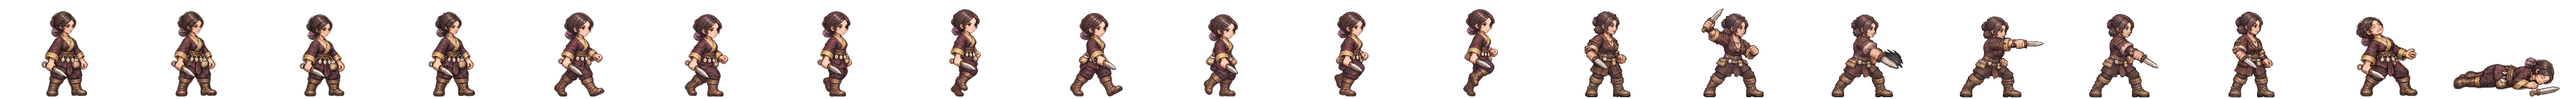
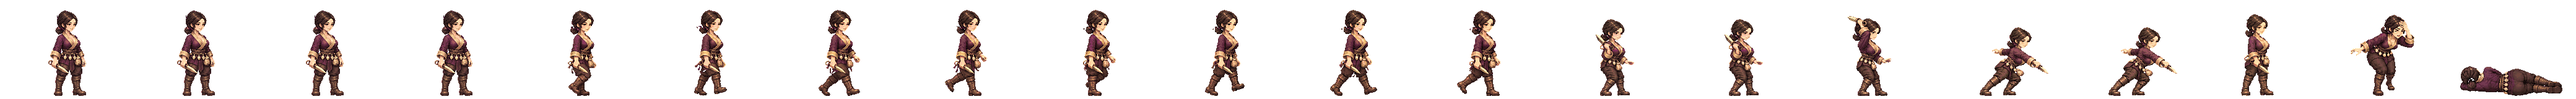
달래 창 찌르기를 새 인형으로 다시 · 걷기는 받은 그림 그대로
T3 · T4 를 받음. T4 다시 그린 판은 팔이 굽고 끝 칸 발 찾기가 어긋나 첫 판을 쓴다(두 팔을 곧게 뻗은 칸 · 끝 칸 키 147 로 서기 139 보다 조금 크다). 띠 검사 합격(경고: 가장 멀리 찌른 칸 앞 여백 4px).

Claude-Session: https://claude.ai/code/session_01TRiuN7s6aDfSnaHxrkctmU

diff --git a/src/realm/data/spritePx.ts b/src/realm/data/spritePx.ts
@@ -1,3 +1,3 @@
 /** public/realm/anim-px/manifest.json 의 사본 — tools/sprite-normalize.mjs 가 만든다 (손으로 고치지 말 것). 칸 [가로, 세로] · feet = 발 줄(칸 위에서 y) · bodyPx = 서 있는 몸 키 */
 import { expandManifest } from './sprite-manifest.ts'
-export const SPRITE_PX: Readonly<Record<string, { readonly cell: readonly [number, number]; readonly feet: number; readonly bodyPx: number; readonly kind: 'general' | 'soldier' | 'folk' | 'crowd'; readonly cells: number }>> = expandManifest<{ readonly cell: readonly [number, number]; readonly feet: number; readonly bodyPx: number; readonly kind: 'general' | 'soldier' | 'folk' | 'crowd'; readonly cells: number }>([{"cell":[166,128],"feet":126,"bodyPx":124,"kind":"soldier","cells":20},{"cell":[116,128],"feet":126,"bodyPx":117,"kind":"soldier","cells":20},{"cell":[127,128],"feet":126,"bodyPx":116,"kind":"soldier","cells":20},{"cell":[269,128],"feet":126,"bodyPx":126,"kind":"soldier","cells":20},{"cell":[503,128],"feet":126,"bodyPx":127,"kind":"soldier","cells":20},{"cell":[614,128],"feet":126,"bodyPx":126,"kind":"soldier","cells":20},{"cell":[200,160],"feet":156,"bodyPx":138,"kind":"general","cells":20},{"cell":[208,160],"feet":155,"bodyPx":138,"kind":"general","cells":20},{"cell":[208,160],"feet":154,"bodyPx":138,"kind":"general","cells":20},{"cell":[304,160],"feet":155,"bodyPx":135,"kind":"general","cells":20},{"cell":[224,160],"feet":156,"bodyPx":139,"kind":"general","cells":20},{"cell":[184,160],"feet":156,"bodyPx":138,"kind":"general","cells":20},{"cell":[208,160],"feet":154,"bodyPx":136,"kind":"general","cells":20},{"cell":[240,160],"feet":156,"bodyPx":138,"kind":"general","cells":20},{"cell":[232,160],"feet":156,"bodyPx":138,"kind":"general","cells":20},{"cell":[208,160],"feet":156,"bodyPx":138,"kind":"general","cells":20},{"cell":[192,160],"feet":156,"bodyPx":138,"kind":"general","cells":20},{"cell":[168,160],"feet":156,"bodyPx":124,"kind":"general","cells":20},{"cell":[216,160],"feet":156,"bodyPx":130,"kind":"general","cells":20},{"cell":[200,160],"feet":156,"bodyPx":116,"kind":"general","cells":20},{"cell":[200,160],"feet":156,"bodyPx":135,"kind":"general","cells":20},{"cell":[280,160],"feet":156,"bodyPx":138,"kind":"general","cells":20},{"cell":[232,160],"feet":155,"bodyPx":138,"kind":"general","cells":20},{"cell":[232,160],"feet":156,"bodyPx":134,"kind":"general","cells":20},{"cell":[144,160],"feet":156,"bodyPx":70,"kind":"general","cells":20},{"cell":[208,160],"feet":156,"bodyPx":70,"kind":"general","cells":20},{"cell":[192,160],"feet":156,"bodyPx":70,"kind":"general","cells":20},{"cell":[240,160],"feet":155,"bodyPx":138,"kind":"general","cells":20},{"cell":[160,160],"feet":156,"bodyPx":135,"kind":"general","cells":20},{"cell":[192,160],"feet":156,"bodyPx":128,"kind":"general","cells":20},{"cell":[224,160],"feet":155,"bodyPx":138,"kind":"general","cells":20},{"cell":[232,160],"feet":156,"bodyPx":139,"kind":"general","cells":20},{"cell":[216,160],"feet":156,"bodyPx":138,"kind":"general","cells":20},{"cell":[208,160],"feet":156,"bodyPx":134,"kind":"general","cells":20},{"cell":[176,160],"feet":156,"bodyPx":130,"kind":"general","cells":20},{"cell":[248,160],"feet":156,"bodyPx":138,"kind":"general","cells":20},{"cell":[248,160],"feet":155,"bodyPx":138,"kind":"general","cells":20},{"cell":[192,160],"feet":155,"bodyPx":138,"kind":"general","cells":20},{"cell":[192,160],"feet":156,"bodyPx":124,"kind":"general","cells":20},{"cell":[208,160],"feet":154,"bodyPx":131,"kind":"general","cells":20},{"cell":[256,160],"feet":156,"bodyPx":138,"kind":"general","cells":20},{"cell":[232,160],"feet":156,"bodyPx":73,"kind":"general","cells":20},{"cell":[256,160],"feet":155,"bodyPx":138,"kind":"general","cells":20},{"cell":[264,160],"feet":156,"bodyPx":138,"kind":"general","cells":20},{"cell":[224,160],"feet":156,"bodyPx":138,"kind":"general","cells":20},{"cell":[224,160],"feet":156,"bodyPx":128,"kind":"general","cells":20},{"cell":[176,160],"feet":156,"bodyPx":129,"kind":"general","cells":20},{"cell":[208,160],"feet":154,"bodyPx":139,"kind":"general","cells":20},{"cell":[208,160],"feet":156,"bodyPx":132,"kind":"general","cells":20},{"cell":[216,160],"feet":155,"bodyPx":138,"kind":"general","cells":20},{"cell":[184,160],"feet":156,"bodyPx":122,"kind":"general","cells":20},{"cell":[176,160],"feet":156,"bodyPx":138,"kind":"general","cells":20},{"cell":[280,160],"feet":155,"bodyPx":133,"kind":"general","cells":20},{"cell":[176,160],"feet":156,"bodyPx":70,"kind":"general","cells":20},{"cell":[186,128],"feet":126,"bodyPx":127,"kind":"soldier","cells":20},{"cell":[298,128],"feet":126,"bodyPx":126,"kind":"soldier","cells":20},{"cell":[82,128],"feet":126,"bodyPx":114,"kind":"folk","cells":8},{"cell":[134,128],"feet":126,"bodyPx":119,"kind":"soldier","cells":20},{"cell":[380,128],"feet":126,"bodyPx":124,"kind":"soldier","cells":20},{"cell":[114,128],"feet":126,"bodyPx":115,"kind":"soldier","cells":20},{"cell":[122,128],"feet":126,"bodyPx":114,"kind":"soldier","cells":20},{"cell":[254,128],"feet":126,"bodyPx":128,"kind":"soldier","cells":20},{"cell":[438,128],"feet":126,"bodyPx":126,"kind":"soldier","cells":20},{"cell":[88,128],"feet":126,"bodyPx":113,"kind":"folk","cells":8},{"cell":[100,128],"feet":126,"bodyPx":115,"kind":"folk","cells":8},{"cell":[108,128],"feet":126,"bodyPx":115,"kind":"folk","cells":8},{"cell":[63,128],"feet":126,"bodyPx":113,"kind":"folk","cells":8},{"cell":[69,96],"feet":96,"bodyPx":96,"kind":"crowd","cells":1},{"cell":[54,96],"feet":96,"bodyPx":96,"kind":"crowd","cells":1},{"cell":[47,96],"feet":96,"bodyPx":96,"kind":"crowd","cells":1},{"cell":[49,96],"feet":96,"bodyPx":96,"kind":"crowd","cells":1},{"cell":[57,96],"feet":96,"bodyPx":96,"kind":"crowd","cells":1},{"cell":[55,96],"feet":96,"bodyPx":96,"kind":"crowd","cells":1},{"cell":[45,96],"feet":96,"bodyPx":96,"kind":"crowd","cells":1},{"cell":[53,96],"feet":96,"bodyPx":96,"kind":"crowd","cells":1},{"cell":[64,96],"feet":96,"bodyPx":96,"kind":"crowd","cells":1},{"cell":[184,160],"feet":156,"bodyPx":124,"kind":"general","cells":20},{"cell":[184,160],"feet":156,"bodyPx":134,"kind":"general","cells":20},{"cell":[224,160],"feet":156,"bodyPx":133,"kind":"general","cells":20},{"cell":[192,160],"feet":156,"bodyPx":135,"kind":"general","cells":20},{"cell":[184,160],"feet":156,"bodyPx":137,"kind":"general","cells":20},{"cell":[216,160],"feet":156,"bodyPx":134,"kind":"general","cells":20},{"cell":[216,160],"feet":156,"bodyPx":132,"kind":"general","cells":20},{"cell":[288,160],"feet":156,"bodyPx":138,"kind":"general","cells":20},{"cell":[192,160],"feet":156,"bodyPx":118,"kind":"general","cells":20},{"cell":[208,160],"feet":154,"bodyPx":134,"kind":"general","cells":20},{"cell":[192,160],"feet":157,"bodyPx":139,"kind":"general","cells":20},{"cell":[184,160],"feet":156,"bodyPx":128,"kind":"general","cells":20},{"cell":[240,160],"feet":156,"bodyPx":128,"kind":"general","cells":20},{"cell":[184,160],"feet":156,"bodyPx":132,"kind":"general","cells":20},{"cell":[208,160],"feet":156,"bodyPx":123,"kind":"general","cells":20},{"cell":[208,160],"feet":154,"bodyPx":137,"kind":"general","cells":20},{"cell":[176,160],"feet":156,"bodyPx":116,"kind":"general","cells":20},{"cell":[272,160],"feet":156,"bodyPx":138,"kind":"general","cells":20},{"cell":[176,160],"feet":156,"bodyPx":122,"kind":"general","cells":20},{"cell":[232,160],"feet":156,"bodyPx":127,"kind":"general","cells":20},{"cell":[168,160],"feet":156,"bodyPx":138,"kind":"general","cells":20},{"cell":[176,160],"feet":156,"bodyPx":137,"kind":"general","cells":20},{"cell":[184,160],"feet":156,"bodyPx":133,"kind":"general","cells":20}],[["axe",0],["bandit-chief",1],["bandit-club",2],["boat",3],["bow",4],["crossbow",5],["gen-adogan",6],["gen-alpyeong",7],["gen-ara",8],["gen-areum",8],["gen-aryeong",9],["gen-bakdal",6],["gen-baram",10],["gen-bdanbi",11],["gen-beom",12],["gen-beombal",11],["gen-beomi",13],["gen-bira",14],["gen-biryu",15],["gen-budeul",8],["gen-byeol",16],["gen-daemusin",17],["gen-daeso",18],["gen-dallae2",11],["gen-dalli",11],["gen-damul",19],["gen-danbi",15],["gen-dangung",16],["gen-darae",20],["gen-dokmudeom",7],["gen-duman",21],["gen-eomni",22],["gen-eureum",23],["gen-g-bow",24],["gen-g-spear",25],["gen-g-sword",26],["gen-gaennae",6],["gen-gamsil",27],["gen-gaon",28],["gen-geota",15],["gen-geumbawi",11],["gen-geumha",29],["gen-goeun",15],["gen-gom",30],["gen-gomok",15],["gen-gureum",27],["gen-guryema",16],["gen-gwaeyu",14],["gen-haebi",8],["gen-haedal",6],["gen-haesol",31],["gen-halla",7],["gen-heo",8],["gen-hneoul",11],["gen-hogong",32],["gen-hojin",15],["gen-horselord",33],["gen-hwalmi",34],["gen-hyeokgeose",16],["gen-hyeopbo",6],["gen-irang",15],["gen-jibaekho",35],["gen-jinha",36],["gen-jita",37],["gen-jumong",38],["gen-keundol",7],["gen-maehwa",39],["gen-maenun",16],["gen-malgalgi",40],["gen-mari",13],["gen-maro",35],["gen-maryeo",15],["gen-mdallae",31],["gen-mir",6],["gen-mount",41],["gen-mulbeom",42],["gen-mulsae",32],["gen-musoe",32],["gen-noeul",8],["gen-nuri",43],["gen-ocheongan",44],["gen-odi",8],["gen-odogan",6],["gen-ogan",16],["gen-oi",45],["gen-olddaeso",23],["gen-onjo",46],["gen-pidogan",15],["gen-sagong",47],["gen-sdallae",6],["gen-sincheongan",32],["gen-singwigan",32],["gen-sinneoul",8],["gen-sobeol",22],["gen-soebi",6],["gen-soebo",48],["gen-soenun",35],["gen-sogeumbi",49],["gen-songbi",44],["gen-songyang",50],["gen-sori",51],["gen-soseono",52],["gen-suro",16],["gen-tahae",6],["gen-tneoul",8],["gen-w-bow",24],["gen-w-spear",53],["gen-waechief",15],["gen-wan",32],["gen-yeodogan",15],["gen-yucheongan",15],["gen-yusugan",35],["horse",54],["marine",55],["migrant",56],["militia",57],["pike",58],["pirate-captain",59],["pirate-sword",60],["shield",61],["spear",62],["villager-builder",63],["villager-farmer",64],["villager-porter",65],["villager-woman",66],["crowd-b1",67],["crowd-b2",68],["crowd-b3",69],["crowd-b4",70],["crowd-b5",71],["crowd-b6",72],["crowd-f1",67],["crowd-f2",72],["crowd-f3",73],["crowd-f4",74],["crowd-f5",67],["crowd-f6",75],["gen-dalbit",15],["gen-base-g-07-drunk-warrior",16],["gen-base-g-40-anya-adan",15],["gen-base-w-13-young-archer",8],["gen-base-g-03-sea-trader",13],["gen-base-w-10-pirate-captain",47],["gen-base-w-64-miri-dallae",47],["gen-base-g-41-goja-bau",13],["gen-base-g-42-dokro-garam",43],["gen-base-g-09-farmer-conscript",32],["gen-base-w-02-goguryeo-lady",32],["gen-base-w-17-mahan-pearl-diver",8],["gen-base-g-17-saro-isageum",48],["gen-base-g-18-daegaya-king",76],["gen-base-g-35-dabeol-dalgu",15],["gen-base-g-19-sabeol-veteran",32],["gen-base-w-23-usisan-whale-queen",8],["gen-base-g-36-gammun-gamdol",44],["gen-base-g-20-samul-sea-lord",40],["gen-base-g-37-eumjeup-jeup",11],["gen-base-g-38-chopal-palmae",16],["gen-base-w-75-daegaya-soemoe",16],["gen-base-g-45-dabeol-deulgae",11],["gen-base-g-04-jinhan-giant",15],["gen-base-g-08-veteran",15],["gen-base-w-18-jinhan-salt-widow",15],["gen-base-w-12-court-dancer",77],["gen-base-w-83-gyeonji-beodeul",78],["gen-base-w-05-baekje-queen",79],["gen-base-w-21-baekje-court-dancer",11],["gen-base-g-01-master-smith",80],["gen-base-g-93-jomun-solgae",34],["gen-base-g-57-bihwa-neup",13],["gen-base-w-72-eumjeup-beol",8],["gen-base-w-102-garak-dana",47],["gen-base-g-68-baekje-onnuri",15],["gen-base-w-27-mokji-jinha",6],["gen-base-g-22-ungcheon-gomnae",6],["gen-base-g-23-sangdang-soedal",15],["gen-base-g-24-wansan-onsan",6],["gen-base-g-25-balla-keunmoe",32],["gen-base-g-61-heomcheuk-bawi",32],["gen-base-g-88-wander-soeul",44],["gen-base-w-14-feast-spy",6],["gen-base-g-12-silla-youth",81],["gen-base-w-08-mahan-warrior",8],["gen-base-g-62-beonye-hanul",13],["gen-base-g-63-heomcheuk-beogeum",15],["gen-base-g-84-wander-seoneul",15],["gen-base-w-50-siljik-mulga",32],["gen-base-g-46-uga-nureongso",32],["gen-base-w-80-usan-gangchi",13],["gen-base-g-47-guga-sanyanggae",32],["gen-base-w-76-gampyeong-baetsagong",8],["gen-base-g-05-mahan-chieftain",82],["gen-base-g-58-usan-uhae",15],["gen-base-g-27-maek-maekdol",15],["gen-base-w-53-hwanna-gabi",47],["gen-base-w-29-golpo-janmul",35],["gen-base-g-53-baekje-haeru",6],["gen-base-w-71-yeonna-neoul",13],["gen-base-w-79-yangmaek-solmae",32],["gen-base-w-34-chopal-deulme",8],["gen-base-g-44-maga-malgup",83],["gen-base-w-31-dabeol-dalbit",47],["gen-base-g-51-biryuna-mulgyeol",44],["gen-base-g-48-gwanna-musoe",15],["gen-base-g-32-uga-sodu",14],["gen-base-g-49-goguryeo-sona",84],["gen-base-g-30-gwanna-soemoe",44],["gen-base-g-52-tamna-oreum",11],["gen-base-g-29-yeonna-myeongsol",38],["gen-base-w-56-dongokjeo-sogeum",85],["gen-base-g-54-mokji-mahan",14],["gen-base-g-33-jeoga-metdol",16],["gen-base-w-36-baekje-maena",8],["gen-base-w-38-sangdang-bulmae",6],["gen-base-w-39-gosaburi-galmae",86],["gen-base-w-40-mujin-munui",48],["gen-base-w-41-hwanna-beodeul",87],["gen-base-w-43-uga-nuri",40],["gen-base-w-45-tamna-oreumbi",11],["gen-base-g-60-golbeol-golgae",11],["gen-base-g-61-apdok-ap",32],["gen-base-g-62-gammun-gamnamu",6],["gen-base-g-63-chopal-yeoul",35],["gen-base-g-64-michuhol-sogeumkkun",13],["gen-base-g-65-sangdang-soemangchi",44],["gen-base-g-66-geonma-malbalgup",88],["gen-base-g-67-gosaburi-buri",89],["gen-base-g-68-mujin-bitgoeul",11],["gen-base-g-69-goryong-yong",44],["gen-base-g-70-siljik-pado",13],["gen-base-w-81-byeokjin-byeolbit",14],["gen-base-w-46-geonma-maru",35],["gen-base-w-48-mujin-mudeung",13],["gen-base-g-26-gampyeong-gaetbeol",14],["gen-base-g-60-eupcha-hangyeol",90],["gen-base-g-15-shaman-man",32],["gen-base-g-85-wander-ure",35],["gen-base-g-43-hwanna-amnok",15],["gen-base-g-50-bullae-gwaha",79],["gen-base-g-55-saro-bakdal",15],["gen-base-g-56-haseulla-gwahama",6],["gen-base-w-06-buyeo-huntress",91],["gen-base-w-22-dongye-tiger-huntress",8],["gen-base-w-25-bihwa-priestess",32],["gen-base-w-24-apdok-queen",11],["gen-base-w-61-iseo-sinae",15],["gen-base-w-26-iseo-tomboy-general",8],["gen-base-g-59-yangmaek-maekson",92],["gen-aw1-haebi",44],["gen-aw1-soseono",93],["gen-aw1-gamsil",11],["gen-aw1-mir",51],["gen-aw1-dangung",6],["gen-aw1-ara",44],["gen-aw1-jumong",94],["gen-aw1-onjo",95],["gen-aw1-base-w-83-gyeonji-beodeul",16],["gen-aw1-heo",43],["gen-aw1-base-g-38-chopal-palmae",6],["gen-aw1-base-w-25-bihwa-priestess",77],["gen-aw1-sori",96],["gen-aw1-gomok",6],["gen-aw1-irang",16],["gen-aw1-budeul",96],["gen-aw1-gom",13],["gen-aw1-sdallae",6],["gen-aw1-base-w-13-young-archer",6],["gen-aw1-base-w-36-baekje-maena",97],["gen-aw1-base-g-09-farmer-conscript",43],["gen-aw1-base-w-02-goguryeo-lady",98],["gen-aw1-haedal",11],["gen-aw1-hogong",6],["gen-aw1-maehwa",51],["gen-aw1-base-w-06-buyeo-huntress",14],["gen-aw1-base-w-08-mahan-warrior",44],["gen-aw1-base-w-29-golpo-janmul",44],["gen-aw1-base-w-31-dabeol-dalbit",16],["gen-aw1-base-w-38-sangdang-bulmae",96],["gen-aw1-bira",32],["gen-aw1-base-w-53-hwanna-gabi",96],["gen-aw1-base-w-56-dongokjeo-sogeum",51],["gen-aw1-base-w-72-eumjeup-beol",16],["gen-aw1-bdanbi",96],["gen-aw1-beom",11],["gen-aw1-beombal",11],["gen-aw1-byeol",16],["gen-aw1-dalli",51],["gen-aw1-malgalgi",35],["gen-aw1-sincheongan",32]])
+export const SPRITE_PX: Readonly<Record<string, { readonly cell: readonly [number, number]; readonly feet: number; readonly bodyPx: number; readonly kind: 'general' | 'soldier' | 'folk' | 'crowd'; readonly cells: number }>> = expandManifest<{ readonly cell: readonly [number, number]; readonly feet: number; readonly bodyPx: number; readonly kind: 'general' | 'soldier' | 'folk' | 'crowd'; readonly cells: number }>([{"cell":[166,128],"feet":126,"bodyPx":124,"kind":"soldier","cells":20},{"cell":[116,128],"feet":126,"bodyPx":117,"kind":"soldier","cells":20},{"cell":[127,128],"feet":126,"bodyPx":116,"kind":"soldier","cells":20},{"cell":[269,128],"feet":126,"bodyPx":126,"kind":"soldier","cells":20},{"cell":[503,128],"feet":126,"bodyPx":127,"kind":"soldier","cells":20},{"cell":[614,128],"feet":126,"bodyPx":126,"kind":"soldier","cells":20},{"cell":[200,160],"feet":156,"bodyPx":138,"kind":"general","cells":20},{"cell":[208,160],"feet":155,"bodyPx":138,"kind":"general","cells":20},{"cell":[208,160],"feet":154,"bodyPx":138,"kind":"general","cells":20},{"cell":[304,160],"feet":155,"bodyPx":135,"kind":"general","cells":20},{"cell":[224,160],"feet":156,"bodyPx":139,"kind":"general","cells":20},{"cell":[184,160],"feet":156,"bodyPx":138,"kind":"general","cells":20},{"cell":[208,160],"feet":154,"bodyPx":136,"kind":"general","cells":20},{"cell":[240,160],"feet":156,"bodyPx":138,"kind":"general","cells":20},{"cell":[232,160],"feet":156,"bodyPx":138,"kind":"general","cells":20},{"cell":[208,160],"feet":156,"bodyPx":138,"kind":"general","cells":20},{"cell":[192,160],"feet":156,"bodyPx":138,"kind":"general","cells":20},{"cell":[168,160],"feet":156,"bodyPx":124,"kind":"general","cells":20},{"cell":[216,160],"feet":156,"bodyPx":130,"kind":"general","cells":20},{"cell":[200,160],"feet":156,"bodyPx":116,"kind":"general","cells":20},{"cell":[200,160],"feet":156,"bodyPx":135,"kind":"general","cells":20},{"cell":[280,160],"feet":156,"bodyPx":138,"kind":"general","cells":20},{"cell":[232,160],"feet":155,"bodyPx":138,"kind":"general","cells":20},{"cell":[232,160],"feet":156,"bodyPx":134,"kind":"general","cells":20},{"cell":[144,160],"feet":156,"bodyPx":70,"kind":"general","cells":20},{"cell":[208,160],"feet":156,"bodyPx":70,"kind":"general","cells":20},{"cell":[192,160],"feet":156,"bodyPx":70,"kind":"general","cells":20},{"cell":[240,160],"feet":155,"bodyPx":138,"kind":"general","cells":20},{"cell":[160,160],"feet":156,"bodyPx":135,"kind":"general","cells":20},{"cell":[192,160],"feet":156,"bodyPx":128,"kind":"general","cells":20},{"cell":[224,160],"feet":155,"bodyPx":138,"kind":"general","cells":20},{"cell":[232,160],"feet":156,"bodyPx":139,"kind":"general","cells":20},{"cell":[216,160],"feet":156,"bodyPx":138,"kind":"general","cells":20},{"cell":[208,160],"feet":156,"bodyPx":134,"kind":"general","cells":20},{"cell":[176,160],"feet":156,"bodyPx":130,"kind":"general","cells":20},{"cell":[248,160],"feet":156,"bodyPx":138,"kind":"general","cells":20},{"cell":[248,160],"feet":155,"bodyPx":138,"kind":"general","cells":20},{"cell":[192,160],"feet":155,"bodyPx":138,"kind":"general","cells":20},{"cell":[192,160],"feet":156,"bodyPx":124,"kind":"general","cells":20},{"cell":[208,160],"feet":154,"bodyPx":131,"kind":"general","cells":20},{"cell":[256,160],"feet":156,"bodyPx":138,"kind":"general","cells":20},{"cell":[232,160],"feet":156,"bodyPx":73,"kind":"general","cells":20},{"cell":[256,160],"feet":155,"bodyPx":138,"kind":"general","cells":20},{"cell":[264,160],"feet":156,"bodyPx":138,"kind":"general","cells":20},{"cell":[224,160],"feet":156,"bodyPx":138,"kind":"general","cells":20},{"cell":[224,160],"feet":156,"bodyPx":128,"kind":"general","cells":20},{"cell":[176,160],"feet":156,"bodyPx":129,"kind":"general","cells":20},{"cell":[208,160],"feet":154,"bodyPx":139,"kind":"general","cells":20},{"cell":[208,160],"feet":156,"bodyPx":132,"kind":"general","cells":20},{"cell":[216,160],"feet":155,"bodyPx":138,"kind":"general","cells":20},{"cell":[184,160],"feet":156,"bodyPx":122,"kind":"general","cells":20},{"cell":[176,160],"feet":156,"bodyPx":138,"kind":"general","cells":20},{"cell":[280,160],"feet":155,"bodyPx":133,"kind":"general","cells":20},{"cell":[176,160],"feet":156,"bodyPx":70,"kind":"general","cells":20},{"cell":[186,128],"feet":126,"bodyPx":127,"kind":"soldier","cells":20},{"cell":[298,128],"feet":126,"bodyPx":126,"kind":"soldier","cells":20},{"cell":[82,128],"feet":126,"bodyPx":114,"kind":"folk","cells":8},{"cell":[134,128],"feet":126,"bodyPx":119,"kind":"soldier","cells":20},{"cell":[380,128],"feet":126,"bodyPx":124,"kind":"soldier","cells":20},{"cell":[114,128],"feet":126,"bodyPx":115,"kind":"soldier","cells":20},{"cell":[122,128],"feet":126,"bodyPx":114,"kind":"soldier","cells":20},{"cell":[254,128],"feet":126,"bodyPx":128,"kind":"soldier","cells":20},{"cell":[438,128],"feet":126,"bodyPx":126,"kind":"soldier","cells":20},{"cell":[88,128],"feet":126,"bodyPx":113,"kind":"folk","cells":8},{"cell":[100,128],"feet":126,"bodyPx":115,"kind":"folk","cells":8},{"cell":[108,128],"feet":126,"bodyPx":115,"kind":"folk","cells":8},{"cell":[63,128],"feet":126,"bodyPx":113,"kind":"folk","cells":8},{"cell":[69,96],"feet":96,"bodyPx":96,"kind":"crowd","cells":1},{"cell":[54,96],"feet":96,"bodyPx":96,"kind":"crowd","cells":1},{"cell":[47,96],"feet":96,"bodyPx":96,"kind":"crowd","cells":1},{"cell":[49,96],"feet":96,"bodyPx":96,"kind":"crowd","cells":1},{"cell":[57,96],"feet":96,"bodyPx":96,"kind":"crowd","cells":1},{"cell":[55,96],"feet":96,"bodyPx":96,"kind":"crowd","cells":1},{"cell":[45,96],"feet":96,"bodyPx":96,"kind":"crowd","cells":1},{"cell":[53,96],"feet":96,"bodyPx":96,"kind":"crowd","cells":1},{"cell":[64,96],"feet":96,"bodyPx":96,"kind":"crowd","cells":1},{"cell":[184,160],"feet":156,"bodyPx":124,"kind":"general","cells":20},{"cell":[184,160],"feet":156,"bodyPx":134,"kind":"general","cells":20},{"cell":[224,160],"feet":156,"bodyPx":133,"kind":"general","cells":20},{"cell":[192,160],"feet":156,"bodyPx":135,"kind":"general","cells":20},{"cell":[184,160],"feet":156,"bodyPx":137,"kind":"general","cells":20},{"cell":[216,160],"feet":156,"bodyPx":134,"kind":"general","cells":20},{"cell":[216,160],"feet":156,"bodyPx":132,"kind":"general","cells":20},{"cell":[288,160],"feet":156,"bodyPx":138,"kind":"general","cells":20},{"cell":[192,160],"feet":156,"bodyPx":118,"kind":"general","cells":20},{"cell":[208,160],"feet":154,"bodyPx":134,"kind":"general","cells":20},{"cell":[192,160],"feet":157,"bodyPx":139,"kind":"general","cells":20},{"cell":[184,160],"feet":156,"bodyPx":128,"kind":"general","cells":20},{"cell":[240,160],"feet":156,"bodyPx":128,"kind":"general","cells":20},{"cell":[184,160],"feet":156,"bodyPx":132,"kind":"general","cells":20},{"cell":[208,160],"feet":156,"bodyPx":123,"kind":"general","cells":20},{"cell":[208,160],"feet":154,"bodyPx":137,"kind":"general","cells":20},{"cell":[176,160],"feet":156,"bodyPx":116,"kind":"general","cells":20},{"cell":[272,160],"feet":156,"bodyPx":138,"kind":"general","cells":20},{"cell":[176,160],"feet":156,"bodyPx":122,"kind":"general","cells":20},{"cell":[232,160],"feet":156,"bodyPx":127,"kind":"general","cells":20},{"cell":[168,160],"feet":156,"bodyPx":138,"kind":"general","cells":20},{"cell":[176,160],"feet":156,"bodyPx":137,"kind":"general","cells":20},{"cell":[184,160],"feet":156,"bodyPx":133,"kind":"general","cells":20}],[["axe",0],["bandit-chief",1],["bandit-club",2],["boat",3],["bow",4],["crossbow",5],["gen-adogan",6],["gen-alpyeong",7],["gen-ara",8],["gen-areum",8],["gen-aryeong",9],["gen-bakdal",6],["gen-baram",10],["gen-bdanbi",11],["gen-beom",12],["gen-beombal",11],["gen-beomi",13],["gen-bira",14],["gen-biryu",15],["gen-budeul",8],["gen-byeol",16],["gen-daemusin",17],["gen-daeso",18],["gen-dallae2",11],["gen-dalli",11],["gen-damul",19],["gen-danbi",15],["gen-dangung",16],["gen-darae",20],["gen-dokmudeom",7],["gen-duman",21],["gen-eomni",22],["gen-eureum",23],["gen-g-bow",24],["gen-g-spear",25],["gen-g-sword",26],["gen-gaennae",6],["gen-gamsil",27],["gen-gaon",28],["gen-geota",15],["gen-geumbawi",11],["gen-geumha",29],["gen-goeun",15],["gen-gom",30],["gen-gomok",15],["gen-gureum",27],["gen-guryema",16],["gen-gwaeyu",14],["gen-haebi",8],["gen-haedal",6],["gen-haesol",31],["gen-halla",7],["gen-heo",8],["gen-hneoul",11],["gen-hogong",32],["gen-hojin",15],["gen-horselord",33],["gen-hwalmi",34],["gen-hyeokgeose",16],["gen-hyeopbo",6],["gen-irang",15],["gen-jibaekho",35],["gen-jinha",36],["gen-jita",37],["gen-jumong",38],["gen-keundol",7],["gen-maehwa",39],["gen-maenun",16],["gen-malgalgi",40],["gen-mari",13],["gen-maro",35],["gen-maryeo",15],["gen-mdallae",31],["gen-mir",6],["gen-mount",41],["gen-mulbeom",42],["gen-mulsae",32],["gen-musoe",32],["gen-noeul",8],["gen-nuri",43],["gen-ocheongan",44],["gen-odi",8],["gen-odogan",6],["gen-ogan",16],["gen-oi",45],["gen-olddaeso",23],["gen-onjo",46],["gen-pidogan",15],["gen-sagong",47],["gen-sdallae",6],["gen-sincheongan",32],["gen-singwigan",32],["gen-sinneoul",8],["gen-sobeol",22],["gen-soebi",6],["gen-soebo",48],["gen-soenun",35],["gen-sogeumbi",49],["gen-songbi",44],["gen-songyang",50],["gen-sori",51],["gen-soseono",52],["gen-suro",16],["gen-tahae",6],["gen-tneoul",8],["gen-w-bow",24],["gen-w-spear",53],["gen-waechief",15],["gen-wan",32],["gen-yeodogan",15],["gen-yucheongan",15],["gen-yusugan",35],["horse",54],["marine",55],["migrant",56],["militia",57],["pike",58],["pirate-captain",59],["pirate-sword",60],["shield",61],["spear",62],["villager-builder",63],["villager-farmer",64],["villager-porter",65],["villager-woman",66],["crowd-b1",67],["crowd-b2",68],["crowd-b3",69],["crowd-b4",70],["crowd-b5",71],["crowd-b6",72],["crowd-f1",67],["crowd-f2",72],["crowd-f3",73],["crowd-f4",74],["crowd-f5",67],["crowd-f6",75],["gen-dalbit",15],["gen-base-g-07-drunk-warrior",16],["gen-base-g-40-anya-adan",15],["gen-base-w-13-young-archer",8],["gen-base-g-03-sea-trader",13],["gen-base-w-10-pirate-captain",47],["gen-base-w-64-miri-dallae",47],["gen-base-g-41-goja-bau",13],["gen-base-g-42-dokro-garam",43],["gen-base-g-09-farmer-conscript",32],["gen-base-w-02-goguryeo-lady",32],["gen-base-w-17-mahan-pearl-diver",8],["gen-base-g-17-saro-isageum",48],["gen-base-g-18-daegaya-king",76],["gen-base-g-35-dabeol-dalgu",15],["gen-base-g-19-sabeol-veteran",32],["gen-base-w-23-usisan-whale-queen",8],["gen-base-g-36-gammun-gamdol",44],["gen-base-g-20-samul-sea-lord",40],["gen-base-g-37-eumjeup-jeup",11],["gen-base-g-38-chopal-palmae",16],["gen-base-w-75-daegaya-soemoe",16],["gen-base-g-45-dabeol-deulgae",11],["gen-base-g-04-jinhan-giant",15],["gen-base-g-08-veteran",15],["gen-base-w-18-jinhan-salt-widow",8],["gen-base-w-12-court-dancer",77],["gen-base-w-83-gyeonji-beodeul",78],["gen-base-w-05-baekje-queen",79],["gen-base-w-21-baekje-court-dancer",11],["gen-base-g-01-master-smith",80],["gen-base-g-93-jomun-solgae",34],["gen-base-g-57-bihwa-neup",13],["gen-base-w-72-eumjeup-beol",8],["gen-base-w-102-garak-dana",47],["gen-base-g-68-baekje-onnuri",15],["gen-base-w-27-mokji-jinha",6],["gen-base-g-22-ungcheon-gomnae",6],["gen-base-g-23-sangdang-soedal",15],["gen-base-g-24-wansan-onsan",6],["gen-base-g-25-balla-keunmoe",32],["gen-base-g-61-heomcheuk-bawi",32],["gen-base-g-88-wander-soeul",44],["gen-base-w-14-feast-spy",6],["gen-base-g-12-silla-youth",81],["gen-base-w-08-mahan-warrior",8],["gen-base-g-62-beonye-hanul",13],["gen-base-g-63-heomcheuk-beogeum",15],["gen-base-g-84-wander-seoneul",15],["gen-base-w-50-siljik-mulga",32],["gen-base-g-46-uga-nureongso",32],["gen-base-w-80-usan-gangchi",13],["gen-base-g-47-guga-sanyanggae",32],["gen-base-w-76-gampyeong-baetsagong",8],["gen-base-g-05-mahan-chieftain",82],["gen-base-g-58-usan-uhae",15],["gen-base-g-27-maek-maekdol",15],["gen-base-w-53-hwanna-gabi",47],["gen-base-w-29-golpo-janmul",35],["gen-base-g-53-baekje-haeru",6],["gen-base-w-71-yeonna-neoul",13],["gen-base-w-79-yangmaek-solmae",32],["gen-base-w-34-chopal-deulme",8],["gen-base-g-44-maga-malgup",83],["gen-base-w-31-dabeol-dalbit",47],["gen-base-g-51-biryuna-mulgyeol",44],["gen-base-g-48-gwanna-musoe",15],["gen-base-g-32-uga-sodu",14],["gen-base-g-49-goguryeo-sona",84],["gen-base-g-30-gwanna-soemoe",44],["gen-base-g-52-tamna-oreum",11],["gen-base-g-29-yeonna-myeongsol",38],["gen-base-w-56-dongokjeo-sogeum",85],["gen-base-g-54-mokji-mahan",14],["gen-base-g-33-jeoga-metdol",16],["gen-base-w-36-baekje-maena",8],["gen-base-w-38-sangdang-bulmae",6],["gen-base-w-39-gosaburi-galmae",86],["gen-base-w-40-mujin-munui",48],["gen-base-w-41-hwanna-beodeul",87],["gen-base-w-43-uga-nuri",40],["gen-base-w-45-tamna-oreumbi",11],["gen-base-g-60-golbeol-golgae",11],["gen-base-g-61-apdok-ap",32],["gen-base-g-62-gammun-gamnamu",6],["gen-base-g-63-chopal-yeoul",35],["gen-base-g-64-michuhol-sogeumkkun",13],["gen-base-g-65-sangdang-soemangchi",44],["gen-base-g-66-geonma-malbalgup",88],["gen-base-g-67-gosaburi-buri",89],["gen-base-g-68-mujin-bitgoeul",11],["gen-base-g-69-goryong-yong",44],["gen-base-g-70-siljik-pado",13],["gen-base-w-81-byeokjin-byeolbit",14],["gen-base-w-46-geonma-maru",35],["gen-base-w-48-mujin-mudeung",13],["gen-base-g-26-gampyeong-gaetbeol",14],["gen-base-g-60-eupcha-hangyeol",90],["gen-base-g-15-shaman-man",32],["gen-base-g-85-wander-ure",35],["gen-base-g-43-hwanna-amnok",15],["gen-base-g-50-bullae-gwaha",79],["gen-base-g-55-saro-bakdal",15],["gen-base-g-56-haseulla-gwahama",6],["gen-base-w-06-buyeo-huntress",91],["gen-base-w-22-dongye-tiger-huntress",8],["gen-base-w-25-bihwa-priestess",32],["gen-base-w-24-apdok-queen",11],["gen-base-w-61-iseo-sinae",15],["gen-base-w-26-iseo-tomboy-general",8],["gen-base-g-59-yangmaek-maekson",92],["gen-aw1-haebi",44],["gen-aw1-soseono",93],["gen-aw1-gamsil",11],["gen-aw1-mir",51],["gen-aw1-dangung",6],["gen-aw1-ara",44],["gen-aw1-jumong",94],["gen-aw1-onjo",95],["gen-aw1-base-w-83-gyeonji-beodeul",16],["gen-aw1-heo",43],["gen-aw1-base-g-38-chopal-palmae",6],["gen-aw1-base-w-25-bihwa-priestess",77],["gen-aw1-sori",96],["gen-aw1-gomok",6],["gen-aw1-irang",16],["gen-aw1-budeul",96],["gen-aw1-gom",13],["gen-aw1-sdallae",6],["gen-aw1-base-w-13-young-archer",6],["gen-aw1-base-w-36-baekje-maena",97],["gen-aw1-base-g-09-farmer-conscript",43],["gen-aw1-base-w-02-goguryeo-lady",98],["gen-aw1-haedal",11],["gen-aw1-hogong",6],["gen-aw1-maehwa",51],["gen-aw1-base-w-06-buyeo-huntress",14],["gen-aw1-base-w-08-mahan-warrior",44],["gen-aw1-base-w-29-golpo-janmul",44],["gen-aw1-base-w-31-dabeol-dalbit",16],["gen-aw1-base-w-38-sangdang-bulmae",96],["gen-aw1-bira",32],["gen-aw1-base-w-53-hwanna-gabi",96],["gen-aw1-base-w-56-dongokjeo-sogeum",51],["gen-aw1-base-w-72-eumjeup-beol",16],["gen-aw1-bdanbi",96],["gen-aw1-beom",11],["gen-aw1-beombal",11],["gen-aw1-byeol",16],["gen-aw1-dalli",51],["gen-aw1-malgalgi",35],["gen-aw1-sincheongan",32]])

diff --git a/src/duel/view.ts b/src/duel/view.ts
@@ -100,7 +100,7 @@ const crowdFront = [1, 2, 3, 4, 5, 6].map((i) => img(`realm/duel/crowd/b${i}.png
 const crowdReady = (set: HTMLImageElement[]): boolean => set.every((im) => im.complete && im.naturalWidth > 0)
 const pxMode = cfg.px !== false && params.get('px') !== '0'
 /** 겨루기 전용 옛 띠(duel/sprites) 대신 열전과 같은 도트 띠(anim-px)를 쓰는 장수 — 두 판에서 같은 모습 · 서기 계획·쓰러지는 칸도 같다 (11-23 범 · 매화 · 달빛 · 11-24 해비 · 아룸) */
-const PX_DUEL: ReadonlySet<string> = new Set(['beom', 'maehwa', 'base-w-31-dabeol-dalbit', 'haebi', 'areum', 'base-w-13-young-archer', 'base-w-10-pirate-captain', 'base-w-17-mahan-pearl-diver', 'base-w-06-buyeo-huntress', 'base-w-64-miri-dallae', 'ara', 'base-w-22-dongye-tiger-huntress', 'noeul', 'sagong', 'sinneoul', 'heo', 'base-w-08-mahan-warrior', 'base-w-23-usisan-whale-queen', 'base-w-26-iseo-tomboy-general', 'base-w-72-eumjeup-beol', 'tneoul', 'odi', 'base-w-76-gampyeong-baetsagong', 'base-w-34-chopal-deulme', 'base-w-102-garak-dana', 'base-w-36-baekje-maena', 'base-w-56-dongokjeo-sogeum', 'budeul', 'base-w-53-hwanna-gabi'])
+const PX_DUEL: ReadonlySet<string> = new Set(['beom', 'maehwa', 'base-w-31-dabeol-dalbit', 'haebi', 'areum', 'base-w-13-young-archer', 'base-w-10-pirate-captain', 'base-w-17-mahan-pearl-diver', 'base-w-06-buyeo-huntress', 'base-w-64-miri-dallae', 'ara', 'base-w-22-dongye-tiger-huntress', 'noeul', 'sagong', 'sinneoul', 'heo', 'base-w-08-mahan-warrior', 'base-w-23-usisan-whale-queen', 'base-w-26-iseo-tomboy-general', 'base-w-72-eumjeup-beol', 'tneoul', 'odi', 'base-w-76-gampyeong-baetsagong', 'base-w-34-chopal-deulme', 'base-w-102-garak-dana', 'base-w-36-baekje-maena', 'base-w-56-dongokjeo-sogeum', 'budeul', 'base-w-53-hwanna-gabi', 'base-w-18-jinhan-salt-widow'])
 /** 띠 그림 — 기본은 anim-px(도트 규격) 먼저, 없으면 옛 띠로 (img 의 onerror 가 갈아 끼운다) */
 const strip = (s: string): HTMLImageElement => pxMode
   ? DUEL_ATLASES[s] !== undefined && !PX_DUEL.has(s) ? img(`realm/duel/sprites/gen-${s}.png`, `realm/anim-px/gen-${s}.png`)

diff --git a/src/tune/params.ts b/src/tune/params.ts
@@ -1448,6 +1448,7 @@ export const HAEBI_IDLE = {
     'base-w-56-dongokjeo-sogeum': { cells: 34, base: [0, 1], hold: 2.4, fall: [18, 20, 21, 19], quirk: [22, 23, 24, 25], quirkTimes: [.3, .32, .4, .28], attack: { cells: [26, 27, 28, 29, 30, 31, 32, 33], times: [.09, .08, .11, .05, .15, .07, .08, .12], hit: 4 }, xGeom: { h: 224, root: 92, foot: 216 } },
     budeul: { cells: 34, base: [0, 1], hold: 2.4, fall: [18, 20, 21, 19], quirk: [22, 23, 24, 25], quirkTimes: [.3, .32, .4, .28], attack: { cells: [26, 27, 28, 29, 30, 31, 32, 33], times: [.09, .08, .11, .05, .15, .07, .08, .12], hit: 4 }, xGeom: { h: 224, root: 92, foot: 216 } },
     'base-w-53-hwanna-gabi': { cells: 34, base: [0, 1], hold: 2.4, fall: [18, 20, 21, 19], quirk: [22, 23, 24, 25], quirkTimes: [.3, .32, .4, .28], attack: { cells: [26, 27, 28, 29, 30, 31, 32, 33], times: [.09, .08, .11, .05, .15, .07, .08, .12], hit: 4 }, xGeom: { h: 224, root: 92, foot: 216 } },
+    'base-w-18-jinhan-salt-widow': { cells: 34, base: [0, 1], hold: 2.4, fall: [18, 20, 21, 19], quirk: [22, 23, 24, 25], quirkTimes: [.3, .32, .4, .28], attack: { cells: [26, 27, 28, 29, 30, 31, 32, 33], times: [.09, .08, .11, .05, .15, .07, .08, .12], hit: 4 }, xGeom: { h: 224, root: 92, foot: 216 } },
   },
 } as const
 export const HAEBI_ANIM = {

diff --git a/src/raid/hero-hd.ts b/src/raid/hero-hd.ts
@@ -38,7 +38,6 @@ export const HERO_HD: Readonly<Record<string, string>> = {
   'anim-px/gen-aw1-base-w-25-bihwa-priestess.png': 'anim-px/gen-aw1-base-w-25-bihwa-priestess_hd.png',
   'anim-px/gen-base-w-24-apdok-queen.png': 'anim-px/gen-base-w-24-apdok-queen_hd.png',
   'anim-px/gen-base-w-21-baekje-court-dancer.png': 'anim-px/gen-base-w-21-baekje-court-dancer_hd.png',
-  'anim-px/gen-base-w-18-jinhan-salt-widow.png': 'anim-px/gen-base-w-18-jinhan-salt-widow_hd.png',
   'anim-px/gen-base-w-14-feast-spy.png': 'anim-px/gen-base-w-14-feast-spy_hd.png',
   'anim-px/gen-base-w-12-court-dancer.png': 'anim-px/gen-base-w-12-court-dancer_hd.png',
   'anim-px/gen-aw1-base-w-13-young-archer.png': 'anim-px/gen-aw1-base-w-13-young-archer_hd.png',
